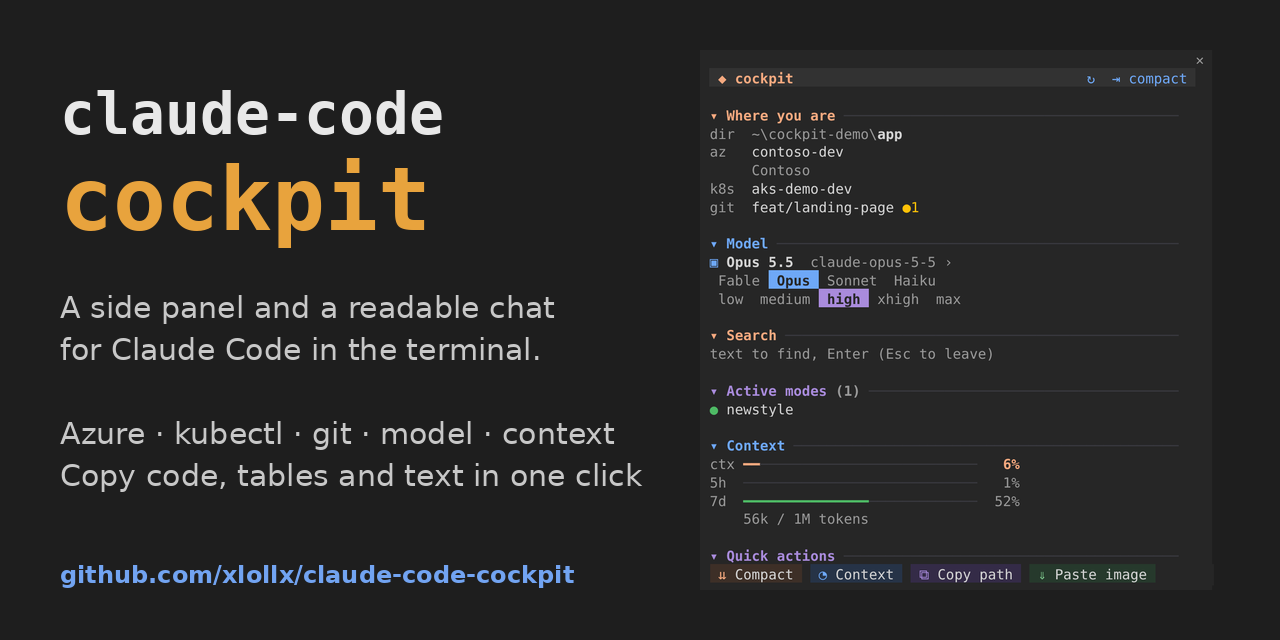
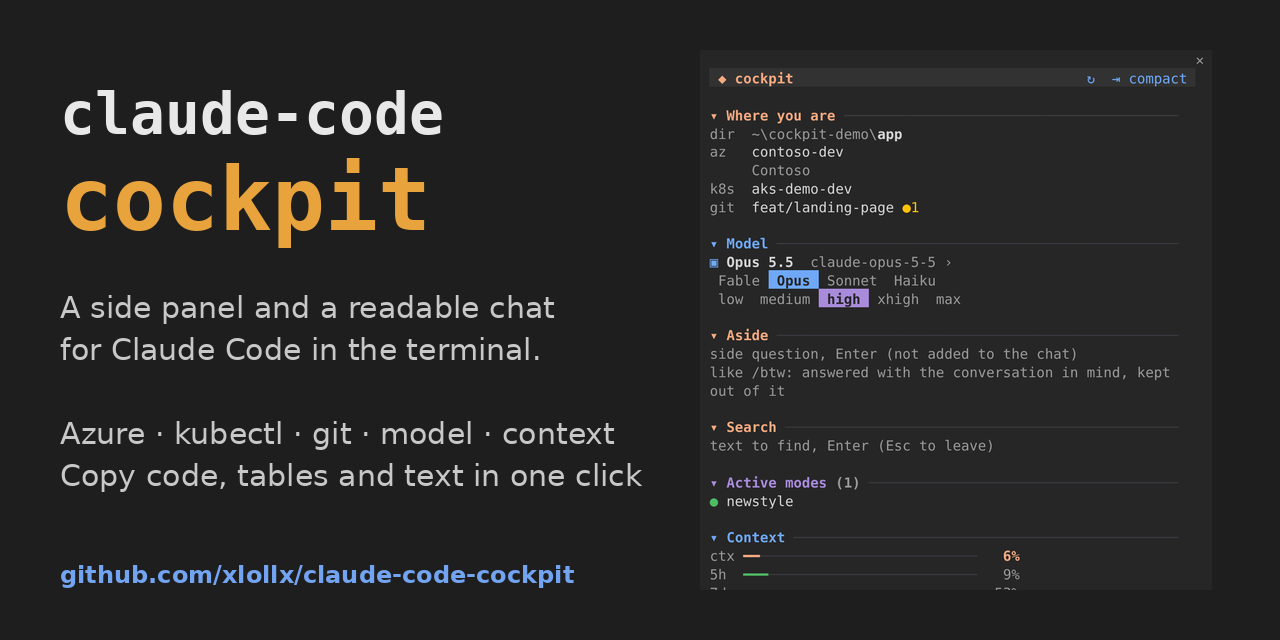
docs: new screenshots with the Aside section, aside.png in the README, Aside frame in the demo GIF
Claude-Session: https://claude.ai/code/session_01H9XCFzxYvkbkopXCq5uiUw

Changed region(s): [[0.5312, 0.5, 0.9062, 0.9375], [0.7812, 0.7188, 0.8125, 0.7812]]

diff --git a/README.md b/README.md
@@ -121,6 +121,8 @@ Production is easy to spot: a subscription, context or branch whose name matches
 
 ### Aside
 
+![Aside: a side question answered in a box in the panel, the chat untouched](docs/aside.png)
+
 A side question, like Claude Code's `/btw`, in a small window of its own. Type it and press Enter: Claude answers with the conversation in mind, briefly, in a box under the field, and nothing is added to the chat. Under the answer, `⧉ Copy` and `✕ Close`; earlier side questions stay underneath on one line each, a click shows them again (the last 5). Each question is one request to the model, read from the prompt cache, and counts toward your usage like any other.
 
 ### Search
